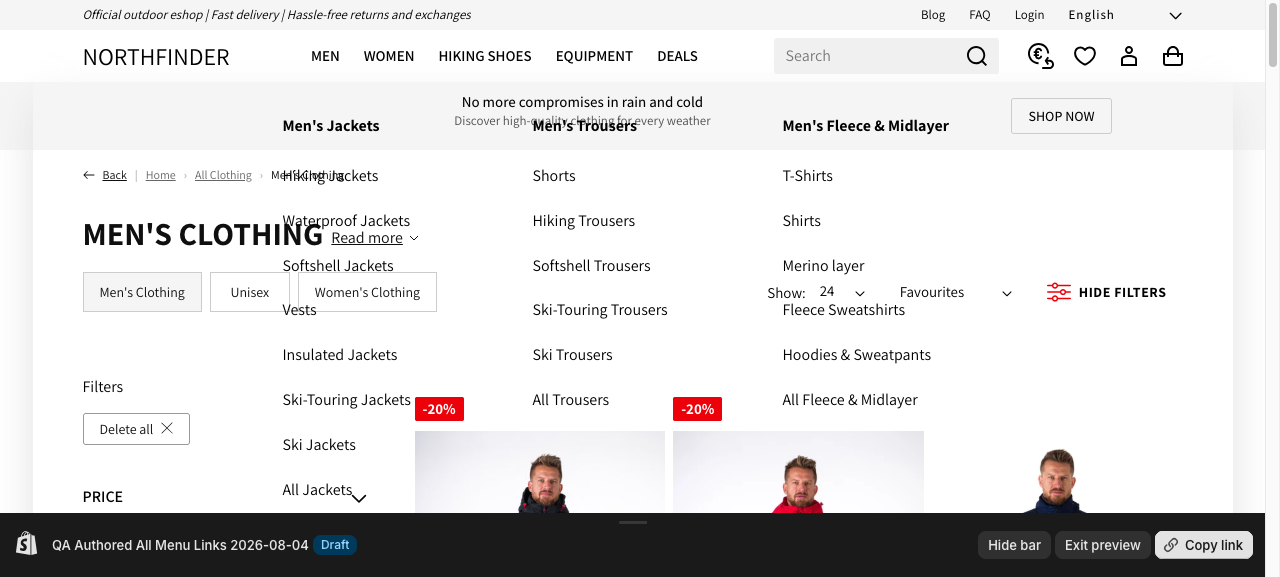
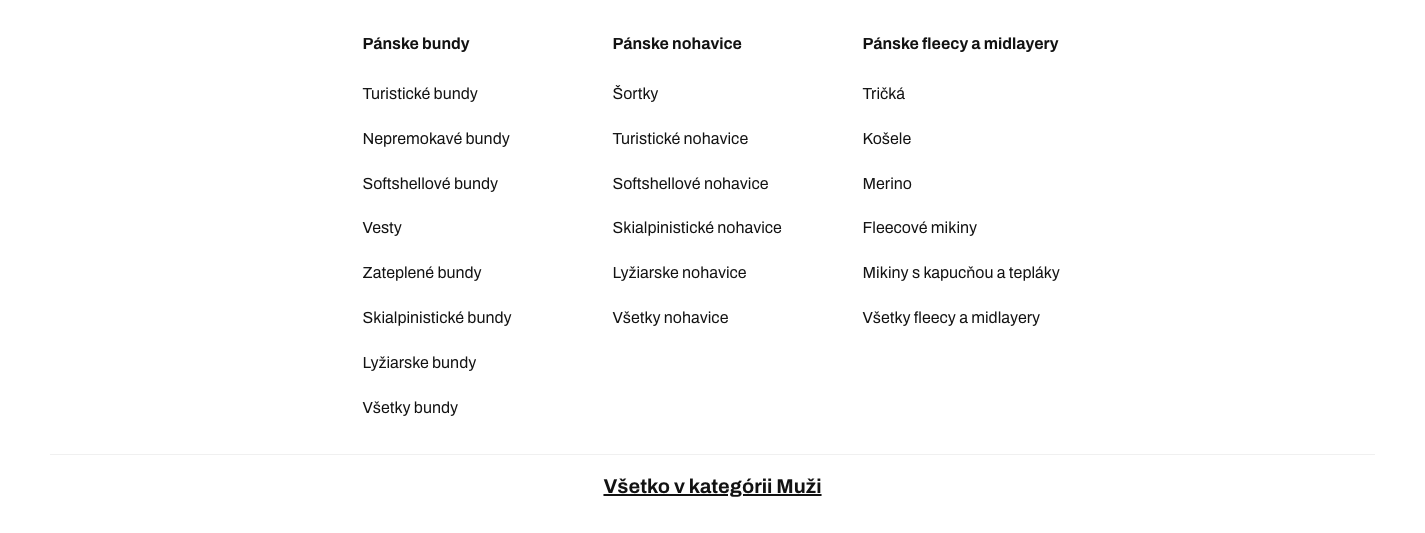
docs(menu): refresh Slovak draft evidence

diff --git a/docs/menu-fix/authored-all-links-evidence.md b/docs/menu-fix/authored-all-links-evidence.md
@@ -1,6 +1,6 @@
 # Merchant-authored “All …” menu links evidence
 
-Verified on 2026-08-04 against the International store.
+Verified on 2026-08-05 against the International store and the Slovak storefront at `northfinder.sk`, matching the locale in the tester's report.
 
 ## Root cause confirmation
 
@@ -20,15 +20,19 @@ The live desktop theme returned no matching nested `.mega-menu__link` elements. 
 - Theme: `QA Authored All Menu Links 2026-08-04`
 - Theme ID: `203133616460`
 - Role: unpublished
-- Preview: <https://sportfinder-international.myshopify.com?preview_theme_id=203133616460>
+- Slovak preview: <https://northfinder.sk/?preview_theme_id=203133616460>
+- MyShopify preview: <https://sportfinder-international.myshopify.com?preview_theme_id=203133616460>
 - Editor: <https://sportfinder-international.myshopify.com/admin/themes/203133616460/editor>
 
-The draft renders all six merchant-authored links in both navigation variants:
+The draft was pushed again without any `--ignore` flags so it includes `config/settings_data.json` and all valid EComposer templates/sections from the repository. Shopify retained all 129 current settings keys; it only normalized the app-embed `blocks` payload when persisting `settings_data.json`. Nine legacy EComposer JSON templates were rejected because each references a section file that does not exist in the repository; they are unrelated to the active storefront and are listed in the validation notes below.
+
+The Slovak draft renders all six merchant-authored links in both navigation variants:
 
 - [`draft-desktop-dom.json`](evidence/authored-all-links/draft-desktop-dom.json)
 - [`draft-mobile-dom.json`](evidence/authored-all-links/draft-mobile-dom.json)
+- [`full-draft-upload-verification.json`](evidence/authored-all-links/full-draft-upload-verification.json)
 
-The uploaded draft snippets were pulled back from Shopify and matched the local files byte-for-byte.
+The uploaded draft snippets, a representative EComposer section/template pair, and active styling files were pulled back from Shopify and matched the local files byte-for-byte. The preview reports `lang="sk"`, draft theme ID `203133616460`, and the repository-configured logo/color settings.
 
 ## Screenshots
 
@@ -40,17 +44,21 @@ Shopify Admin contains `All Jackets`, while the reported storefront menu omits i
 
 ![Reported storefront menu without All Jackets](evidence/authored-all-links/reporter-storefront-menu.png)
 
-### Draft desktop
+### Slovak desktop before and after
 
-The desktop mega menu now includes `All Jackets`, `All Trousers`, and `All Fleece & Midlayer` in their merchant-authored positions:
+The live Slovak mega menu omits the authored links:
 
-![Draft desktop mega menu with authored All links](evidence/authored-all-links/draft-desktop-men-menu.png)
+![Live Slovak desktop menu without authored Všetky links](evidence/authored-all-links/live-sk-desktop-men-menu.png)
 
-### Draft mobile
+The full-style Slovak draft now includes `Všetky bundy`, `Všetky nohavice`, and `Všetky fleecy a midlayery` in their merchant-authored positions:
 
-The mobile drawer now renders the authored `All Jackets` tile instead of replacing it with a generated label:
+![Draft Slovak desktop mega menu with authored Všetky links](evidence/authored-all-links/draft-desktop-men-menu.png)
 
-![Draft mobile menu with authored All Jackets tile](evidence/authored-all-links/draft-mobile-all-jackets-visible.png)
+### Slovak mobile draft
+
+The full-style mobile drawer renders the merchant-authored `Všetky bundy` tile, with collection imagery and settings from the complete draft theme:
+
+![Draft Slovak mobile menu with authored Všetky bundy tile](evidence/authored-all-links/draft-mobile-all-jackets-visible.png)
 
 ## Validation
 
@@ -60,3 +68,13 @@ The mobile drawer now renders the authored `All Jackets` tile instead of replaci
   - `OrphanedSnippet` for both menu snippets, because Theme Check does not resolve their dynamic render path.
   - `ValidRenderSnippetArgumentTypes` for the pre-existing numeric `size: 400` argument in `header-mega-menu.liquid`.
 - Full repository Theme Check remains red because of the existing legacy baseline: 314 errors and 816 warnings across unrelated files.
+- The no-ignore draft push uploaded the full valid theme but Shopify rejected these nine orphaned legacy templates because their referenced section files are absent from the repository:
+  - `templates/index.ecom-69eb1f8f5ae781310c01bc862.json`
+  - `templates/index.ecom-69eb1f8f5ae781310c01bc8627.json`
+  - `templates/index.ecom-69eb1f8f5ae781310c01bc863.json`
+  - `templates/index.ecom-69eb1f8f5ae781310c01bc8626.json`
+  - `templates/index.ecom-69eb1f8f5ae781310c01bc86272.json`
+  - `templates/index.ecom-homepage.json`
+  - `templates/index.ecom-homepagenew2.json`
+  - `templates/index.ecom-hp-new.json`
+  - `templates/index.ecom-northfinder-homepage-new.json`
